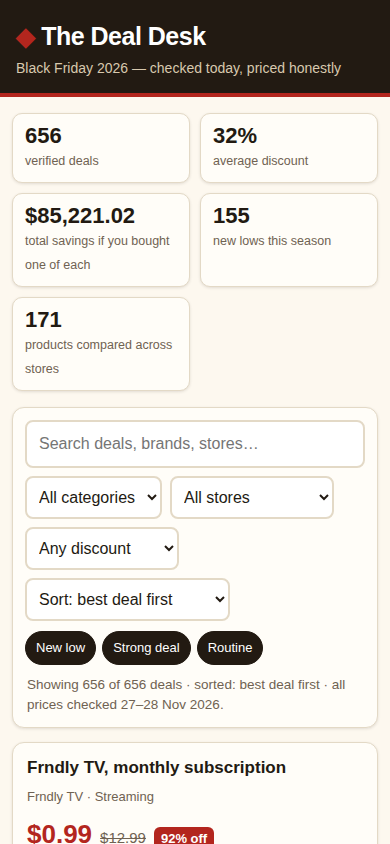
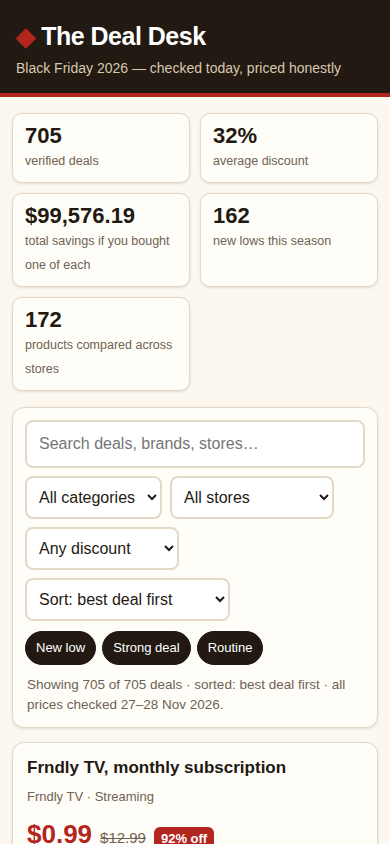
v26: 705 deals — 49 new verified (Dell/PC Guide/BuzzFeed beauty/Slickdeals), 1 also, 4 price fixes; first load 13,854 B, dossier 148,979 B

diff --git a/app/data2.js b/app/data2.js
@@ -1,4 +1,4 @@
-// The rest of the deals (v6–v25; v25 checked 28 Nov 2026 ~20:30 UTC).
+// The rest of the deals (v6–v26; v26 checked 28 Nov 2026 ~20:42 UTC).
 // Loaded by data.js with import() after the first paint. Times/sources
 // are local consts here: never import data.js, or the modules deadlock
 // on the top-level await.
@@ -35,6 +35,11 @@ const Q0=DT+"19:59:00Z";
 const R0=DT+"20:12:00Z";
 const S0=DT+"20:19:00Z";
 const U0=DT+"20:30:00Z";
+const U1=DT+"20:42:00Z";
+const MB = "MacObserver Belkin UltraCharge deal, 28 Nov 2026";
+const DC = "Digital Citizen Dell Black Friday deals, 28 Nov 2026";
+const BF = "BuzzFeed best Amazon Black Friday deals, 28 Nov 2026";
+const HW = "Tom's Hardware Black Friday gaming laptop deals, 24 Nov 2026";
 const BZ = "BuzzFeed Black Friday beauty deals, 28 Nov 2026";
 const WR = "WIRED best Black Friday deals, 28 Nov 2026";
 const DS = "DealSeek best early Black Friday tech deals, 28 Nov 2026";
@@ -165,7 +170,7 @@ export const deals2 = [
   ["marshall-emberton-3-amazon","Marshall Emberton III portable speaker",AM,CA,89.99,179.99,"d3",H8,BL,VN,HP+", the best deal seen",[[BB,89.99,2,H2,BP]]],
   ["garmin-instinct-3-amazon","Garmin Instinct 3 AMOLED (45mm) GPS watch",AM,CF,249.99,449.99,2,H8,BL,VS,"$200 off Garmin's rugged watch",[[BB,249.99,2,H5,BP]]],
   ["anker-power-bank-25k-amazon","Anker laptop power bank, 25,000mAh",AM,CT,91.19,119.99,AMZ+"Anker+laptop+power+bank+25000mAh",H8,BL,VS,R2,[[BB,91,0,R0,VG]]],
-  ["sony-wh1000xm6-bestbuy","Sony WH-1000XM6 noise-canceling headphones",BB,CA,348,458,2,H8,S7,VS,"Read live off Best Buy's page",[[AM,348,AMZ+"Sony+WH-1000XM6"]]],
+  ["sony-wh1000xm6-bestbuy","Sony WH-1000XM6 noise-canceling headphones",BB,CA,348,458,2,H8,S7,VN,"Lowest price ever, $110 off",[[AM,348,AMZ+"Sony+WH-1000XM6"]]],
   ["hp-omnibook-3-bestbuy","HP OmniBook 3 14-inch OLED laptop",BB,CL,599.99,799.99,1,H8,S7,VS,"$200 off a 14-inch OLED laptop"],
   ["insignia-fridge-bestbuy","Insignia 18 cu ft top-freezer refrigerator",BB,CH,299.99,749.99,"d4",H8,S7,VS,"60% off a full-size fridge"],
   ["shark-powerdetect-speed-bestbuy","Shark PowerDetect Speed upright vacuum",BB,CH,199.99,499.99,"d3",H8,S7,VN,"60% off Shark's newest upright"],
@@ -218,7 +223,7 @@ export const deals2 = [
   ["ember-mug-3-amazon","Ember Mug 3, 14-ounce",AM,CK,95,149.95,1,J5,Q9,VS,"A third off the Ember Mug",[[BB,99.99,BBY+"Ember+Mug+3"]]],
   ["govee-lamp-2-pro-amazon","Govee Table Lamp 2 Pro X Sound by JBL",AM,CS,119.99,179.99,4,H8,VG,VS,"A third off the smart lamp",[[BB,119.99,BBY+"Govee+Table+Lamp+2+Pro"]]],
   ["pixel-buds-2a-amazon","Google Pixel Buds 2a",AM,CA,99,129,0,H8,VG,VS,"23% off Google's newest buds",[[BB,99]]],
-  ["glocusent-light-amazon","Glocusent bookmark reading light",AM,CT,10.49,33.89,0,H8,VG,VS,"69% off the pocket light"],
+  ["glocusent-light-amazon","Glocusent bookmark reading light",AM,CT,10.49,33.89,0,H8,VG,VS,"69% off the pocket light",[[WM,10,0,U1,VG]]],
   ["echo-dot-max-amazon","Amazon Echo Dot Max smart speaker",AM,CT,50,120,"1-2",H8,ST,VN,"58% off the big Echo speaker",[[TA,49.99,2,H2,T9],[BB,50,0,R0,VG]]],
   ["echo-time-amazon","Amazon Echo Time smart clock",AM,CT,99.99,199.99,"1-0",H8,ST,VN,HP+" on a new smart",[[TA,99.99,2,H2,T9],[BB,100,0,R0,VG]]],
   ["aqara-u400-amazon","Aqara U400 smart lock",AM,CS,200,270,0,H8,ST,VS,"Hands-free UWB + Home Key"],
@@ -734,4 +739,53 @@ export const deals2 = [
   ["jbl-go-5-amazon","JBL Go 5 portable Bluetooth speaker",AM,CA,39.95,54.95,0,U0,TU,VS,"$15 off the pocket JBL Go 5"],
   ["netgear-orbi-770-3pack-amazon","Netgear Orbi 770 Wi-Fi 7 mesh system, 3-pack",AM,CT,569,700,0,U0,D2,VS,"19% off the Orbi 770 3-pack"],
   ["theragun-prime-g6-target","Theragun Prime (6th Gen) massage gun",TA,CF,189.99,329.99,0,U0,MG,VS,"$140 off the Theragun Prime"],
+  ["thinkpad-p16s-lenovo","Lenovo ThinkPad P16s Gen 5 laptop (16-inch 3K OLED)","Lenovo",CL,3293.22,7549,"https://www.lenovo.com/us/en/search?query=ThinkPad+P16s",U1,SD,VS,"$4,256 off the ThinkPad"],
+  ["rog-strix-g16-5060-amazon","Asus ROG Strix G16 gaming laptop (RTX 5060)",AM,CL,1179,1586,0,U1,TL,VS,"$407 off the Strix G16"],
+  ["predator-helios-18-ai-newegg","Acer Predator Helios 18 AI gaming laptop (RTX 5070 Ti)","Newegg",CL,1999,2299,"https://www.newegg.com/p/pl?d=Acer+Predator+Helios+18+AI",U1,TL,VS,"$300 off the Helios 18 AI"],
+  ["msi-crosshair-max-16-walmart","MSI Crosshair Max 16 gaming laptop (RTX 5060)",WM,CL,1399,2099,0,U1,TL,VS,"$700 off the Crosshair Max"],
+  ["rog-strix-scar-16-newegg","Asus ROG Strix Scar 16 gaming laptop (RTX 5090)","Newegg",CL,4149.99,4499.99,"https://www.newegg.com/p/pl?d=Asus+ROG+Strix+Scar+16",U1,TL,VS,"$350 off the Scar 16 RTX 5090"],
+  ["alienware-16x-aurora-5060-dell","Dell Alienware 16X Aurora gaming laptop (RTX 5060)","Dell",CL,2849.99,3149.99,"https://www.dell.com/en-us/search/Alienware%2016X%20Aurora",U1,HW,VS,"$300 off the 16X Aurora"],
+  ["alienware-16x-aurora-5070-dell","Dell Alienware 16X Aurora gaming laptop (RTX 5070)","Dell",CL,2899.99,3299.99,"https://www.dell.com/en-us/search/Alienware%2016X%20Aurora",U1,DC,VS,"$400 off the 16X Aurora"],
+  ["alienware-16x-aurora-5070ti-dell","Dell Alienware 16X Aurora gaming laptop (RTX 5070 Ti)","Dell",CL,3349.99,3549.99,"https://www.dell.com/en-us/search/Alienware%2016X%20Aurora",U1,DC,VS,"$200 off the 16X Aurora"],
+  ["tuf-gaming-a16-walmart","Asus TUF Gaming A16 gaming laptop",WM,CL,1361,1799,0,U1,TL,VS,"$438 off the TUF A16"],
+  ["legion-5i-walmart","Lenovo Legion 5i gaming laptop",WM,CL,1499,2299,0,U1,TL,VS,"$800 off the Legion 5i"],
+  ["dell-16-plus-32gb-dell","Dell 16 Plus laptop (Core Ultra 7, 32GB/1TB)","Dell",CL,1199.99,1679.99,"https://www.dell.com/en-us/search/Dell%2016%20Plus",U1,DC,VS,"$480 off the Dell 16 Plus"],
+  ["dell-16-plus-16gb-dell","Dell 16 Plus laptop (Core Ultra 7, 16GB/1TB)","Dell",CL,999.99,1399.99,"https://www.dell.com/en-us/search/Dell%2016%20Plus",U1,DC,VS,"$400 off the Dell 16 Plus"],
+  ["dell-14-plus-u5-dell","Dell 14 Plus laptop (Core Ultra 5, 16GB/512GB)","Dell",CL,1139.99,1379.99,"https://www.dell.com/en-us/search/Dell%2014%20Plus",U1,DC,VS,"$240 off the Dell 14 Plus"],
+  ["dell-14-plus-u7-dell","Dell 14 Plus laptop (Core Ultra 7, 16GB/1TB)","Dell",CL,1199.99,1399.99,"https://www.dell.com/en-us/search/Dell%2014%20Plus",U1,DC,VS,"$200 off the Dell 14 Plus"],
+  ["msi-prestige-16-flip-amazon","MSI Prestige 16 Flip laptop",AM,CL,1789,2149,0,U1,PG,VS,"$360 off the Prestige Flip"],
+  ["surface-laptop-15-amazon","Microsoft Surface Laptop 15-inch (Snapdragon X2 Elite, 16GB/1TB)",AM,CL,1549.99,2199.99,0,U1,PG,VS,"$650 off the Surface Laptop"],
+  ["hp-hyperx-omen-16-oled-amazon","HP HyperX OMEN 16 OLED gaming laptop",AM,CL,2399,3199,0,U1,PG,VS,"$800 off the OMEN 16 OLED"],
+  ["legion-tab-gen5-lenovo","Lenovo Legion Tab Gen 5 tablet (8.8-inch, 3K 165Hz)","Lenovo",CT,582,900,"https://www.lenovo.com/us/en/search?query=Legion+Tab+Gen+5",U1,SD,VS,"$318 off the Legion Tab"],
+  ["cvlife-pocket-knife-amazon","CVLIFE compact pocket folding knife (2.12-inch)",AM,CT,18,30,0,U1,SD,VS,"40% off the pocket knife"],
+  ["craftsman-organizer-amazon","CRAFTSMAN 10-compartment small storage organizer",AM,CT,8,11,0,U1,SD,VS,"27% off the organizer"],
+  ["iphone-16e-walmart","Straight Talk Apple iPhone 16e smartphone (128GB, locked)",WM,CT,199,349,0,U1,SD,VS,"Locked Straight Talk, $150 off"],
+  ["viture-luma-pro-amazon","Viture Luma Pro XR glasses",AM,CT,339,499,0,U1,WR,VS,"$160 off the Luma Pro XR"],
+  ["archer-be230-amazon","TP-Link Archer BE230 Wi-Fi 7 router",AM,CT,75,120,0,U1,PG,VS,"38% off the BE230 router"],
+  ["anker-140w-2in1-cable-amazon","Anker 140W 2-in-1 USB-C to USB-C cable",AM,CT,14,18,0,U1,VG,VS,"$4 off the 2-in-1 cable"],
+  ["belkin-ultracharge-3in1-amazon","Belkin UltraCharge 3-in-1 foldable magnetic charger (Qi2 25W)",AM,CT,76.99,99.99,0,U1,MB,VS,"$23 off the UltraCharge 3-in-1"],
+  ["alienware-aw3225qf-dell","Alienware AW3225QF 32-inch 4K QD-OLED gaming monitor","Dell",CT,699.99,999.99,"https://www.dell.com/en-us/search/Alienware%20AW3225QF",U1,DC,VS,"$300 off the 4K QD-OLED"],
+  ["iniu-45w-charger-amazon","INIU 45W fast charging portable charger",AM,CT,31,40,0,U1,DS,VS,"$9 off the 45W charger"],
+  ["anycubic-kobra-x-amazon","AnyCubic Kobra X 4-color 3D printer",AM,CT,285,355,0,U1,DS,VS,"$70 off the Kobra X printer"],
+  ["lexar-nm1090-pro-4tb-amazon","Lexar NM1090 PRO 4TB PCIe 5.0 NVMe SSD",AM,CT,719.99,999.99,0,U1,PG,VS,"$280 off the 4TB Gen5 SSD"],
+  ["msi-pro-a1000pl-amazon","MSI PRO A1000PL 1000W Platinum ATX power supply",AM,CT,119.99,179.99,0,U1,PG,VS,"$60 off the 1000W PSU"],
+  ["thermaltake-view-600-amazon","Thermaltake View 600 TG Snow full tower PC case",AM,CT,89.99,169.99,0,U1,PG,VS,"$80 off the View 600 case"],
+  ["corsair-k65-plus-amazon","CORSAIR K65 PLUS WIRELESS 75% mechanical keyboard",AM,CT,99.99,159.99,0,U1,PG,VS,"$60 off the K65 keyboard"],
+  ["gerber-eab-lite-amazon","Gerber EAB Lite folding utility knife and money clip",AM,CT,13,14,0,U1,ST,VR,"7% off the EAB Lite knife"],
+  ["samsung-frame-2025-55-bestbuy","Samsung The Frame 2025 55-inch 4K TV",BB,CV,700,900,0,U1,VG,VS,"$200 off the 55-inch Frame"],
+  ["lg-c6-oled-77-amazon","LG C6 OLED evo 4K TV, 77-inch",AM,CV,1899.99,2499.99,0,U1,PG,VS,"$600 off the 77-inch C6"],
+  ["chi-infra-silk-amazon","CHI Infra Silk Infusion leave-in hair treatment",AM,CB,14.19,34.14,0,U1,BZ,VN,"Lowest price of the year"],
+  ["sol-de-janeiro-bum-bum-amazon","Sol de Janeiro Brazilian Bum Bum Cream",AM,CB,27,36,0,U1,BZ,VS,"Best deal of the year, 25% off"],
+  ["color-wow-raise-root-amazon","Color Wow Raise the Root volumizing spray",AM,CB,18.2,26,0,U1,BZ,VS,"30% off the root spray"],
+  ["anastasia-brow-definer-amazon","Anastasia Beverly Hills Brow Definer Pencil",AM,CB,18.9,27,0,U1,BZ,VS,"30% off the brow definer"],
+  ["elemis-cleansing-balm-amazon","Elemis Pro-Collagen Cleansing Balm",AM,CB,45,75,0,U1,BZ,VS,"40% off the cleansing balm"],
+  ["lancome-lash-idole-amazon","Lancôme Lash Idôle mascara",AM,CB,14,30,0,U1,BZ,VN,"Lowest price it goes for"],
+  ["truskin-vitamin-c-amazon","TruSkin vitamin C serum",AM,CB,19.31,38.99,0,U1,BZ,VN,"Prime-exclusive best-ever"],
+  ["shark-flexfusion-dryer-amazon","Shark FlexFusion hair straightener and dryer",AM,CB,249.99,399.99,0,U1,BZ,VN,"Best-ever deal, 38% off"],
+  ["eight-saints-neck-cream-amazon","Eight Saints Firming Neck Cream",AM,CB,27.2,44,0,U1,BZ,VS,"38% off the neck cream"],
+  ["medicube-pdrn-balm-amazon","Medicube PDRN Collagen Volume Multi Balm Stick",AM,CB,11.94,20,0,U1,BZ,VS,"40% off the multi balm"],
+  ["olaplex-no7-oil-amazon","Olaplex No. 7 hair-bonding oil",AM,CB,21,30,0,U1,BZ,VS,"30% off the No. 7 oil"],
+  ["shark-speedstyle-amazon","Shark SpeedStyle Pro Flex hair dryer and styler",AM,CB,149,249,0,U1,BZ,VS,"40% off the SpeedStyle"],
+  ["bissell-little-green-amazon","Bissell Little Green carpet and upholstery cleaner",AM,CH,84.99,129.99,0,U1,BF,VN,"New best price of 2026"],
+  ["vitamix-propel-750-amazon","Vitamix Propel 750 blender",AM,CK,359.95,629.95,0,U1,BF,VS,"43% off the Propel 750"],
 ].map(X);

diff --git a/app/data.js b/app/data.js
@@ -1,4 +1,4 @@
-// Deals checked 27-28 Nov 2026 (v25: 31 deals, 2 also, 0 fix 20:30
+// Deals checked 27-28 Nov 2026 (v26: 49 deals, 1 also, 4 fix 20:42
 // 28 Nov) Each deal: product, store, link, prices, check time,
 // source, verdict; `also` = same product at
 //another store; no `checked` = 27 Nov 16:00 UTC. First 80 load with
@@ -9,6 +9,7 @@ export const A8 = "2026-11-28T17:00:00Z";
 export const B2 = "2026-11-28T18:00:00Z";
 // v10 second-store prices, checked 28 Nov 2026 ~19:00 UTC.
 export const B3 = "2026-11-28T19:00:00Z";
+export const B4 = "2026-11-28T20:00:00Z";
 const B = "Best Buy product page, 28 Nov 2026";
 const TG = "Target Black Friday page, 28 Nov 2026";
 const QB = "9to5Toys Best Buy Black Friday, 28 Nov 2026";
@@ -36,7 +37,6 @@ const AM = "Amazon";
 const BB = "Best Buy";
 const WM = "Walmart";
 const TA = "Target";
-// Search links: AMZ/BBY/TGT/WMT + query.
 const AMZ = "https://www.amazon.com/s?k=";
 const BBY = "https://www.bestbuy.com/site/searchpage.jsp?st=";
 const TGT = "https://www.target.com/s?searchTerm=";
@@ -115,8 +115,8 @@ const deals1 = [
     was: 459.99,
     url: 2,
     source: MA,
-    verdict: VS,
-    evidence: "$112 off Sony's flagship",
+    verdict: VN,
+    evidence: "Lowest price ever, $112 off",
     also: [{ store: BB, price: 348, url: BBY+"Sony+WH-1000XM6" }],
   },
   {
@@ -304,12 +304,13 @@ const deals1 = [
     title: "Apple MacBook Air 13-inch (M5, 16GB/512GB)",
     store: AM,
     category: CL,
-    price: 989,
+    price: 999,
     was: 1299,
     url: "1-2",
-    source: "BeeBulletin Black Friday deals 2026, 27 Nov 2026",
-    verdict: VN,
-    evidence: "$310 off the new M5 Air",
+    checked: B4,
+    source: "9to5Toys + Cult of Mac, 28 Nov 2026",
+    verdict: VS,
+    evidence: "$300 off the new M5 Air",
     drop: 1049,
     also: [{ store: BB, price: 999, url: BBY+"MacBook+Air+M5+13-inch" }],
   },
@@ -956,8 +957,8 @@ const deals1 = [
     url: "d0,5",
     checked: A8,
     source: LC,
-    verdict: VS,
-    evidence: "$400 off, the biggest Air cut",
+    verdict: VN,
+    evidence: "All-time low, $400 off Air",
       also: [{ store: BB, price: 1199, url: BBY+"MacBook+Air+M5+13-inch+1TB", checked: B2, source: QB }],
   },
   {

diff --git a/main.ts b/main.ts
@@ -1,10 +1,10 @@
 // The Deal Desk — a Black Friday 2026 deal finder (Node 22, standard
 // library only). The site is this directory's app/ folder: plain static
 // files a browser opens at app/index.html (ES modules, CSS, no build step),
-// its 656 deals held in its own app/data.js (the first 80, loaded with the
+// its 705 deals held in its own app/data.js (the first 80, loaded with the
 // first paint) and app/data2.js (the rest, loaded by import() just after
-// it), each checked 27–28 Nov 2026 at its store; v25: 31 new deals + 2 also, 0 price fixes
-// on 28 Nov ~20:30 UTC. Nothing the site runs,
+// it), each checked 27–28 Nov 2026 at its store; v26: 49 new deals + 1 also, 4 price fixes
+// on 28 Nov ~20:42 UTC. Nothing the site runs,
 // styles or shows loads over the network, and each deal links out to its
 // store. The program hands it in: it copies app/ and screenshots/ from
 // beside this file to /output and writes /output/dossier.json, the summary
